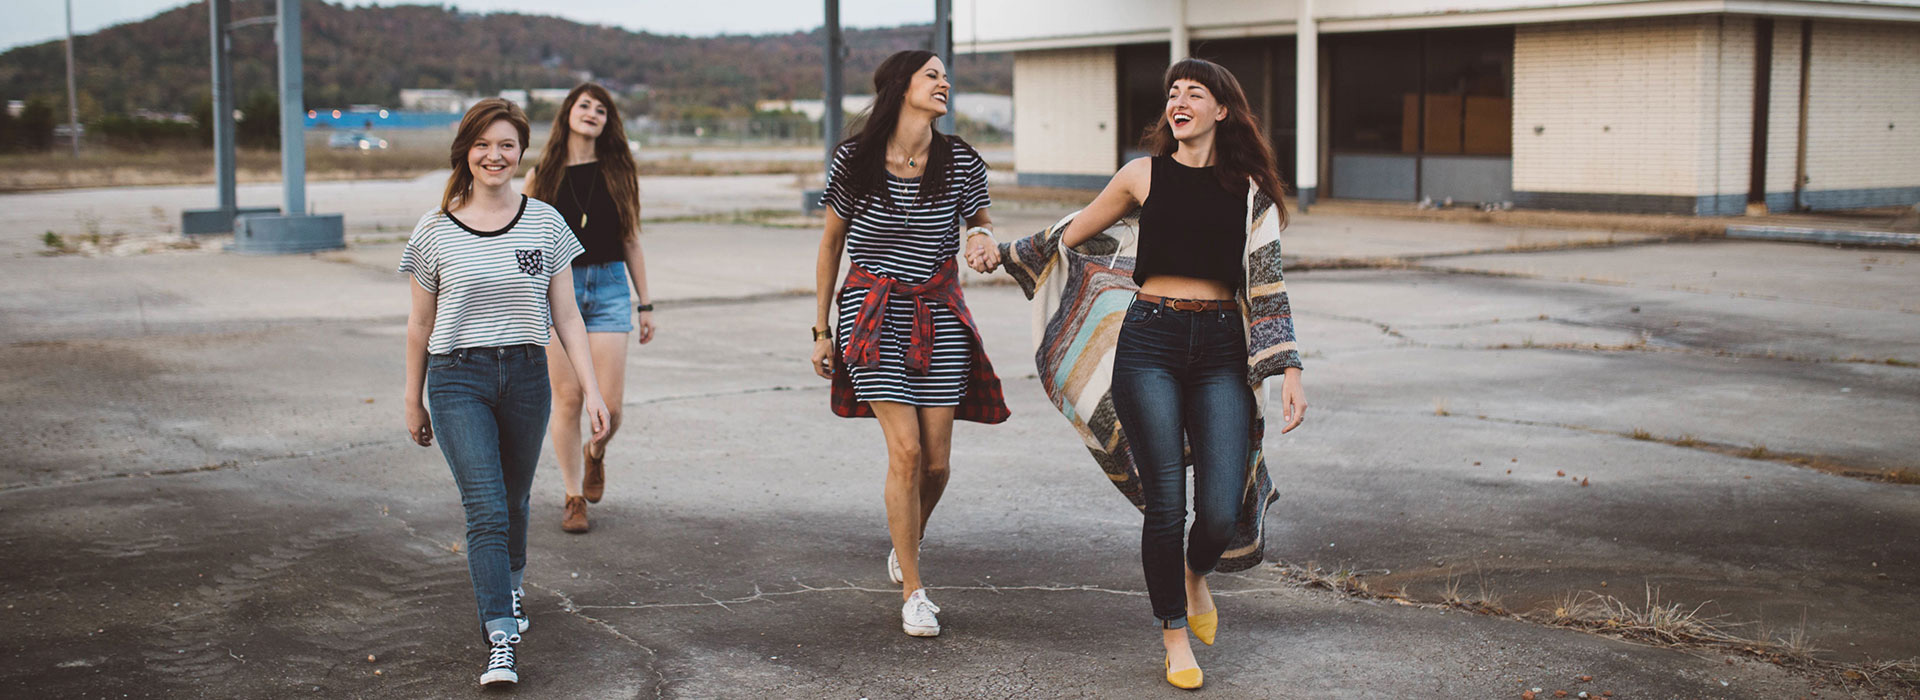
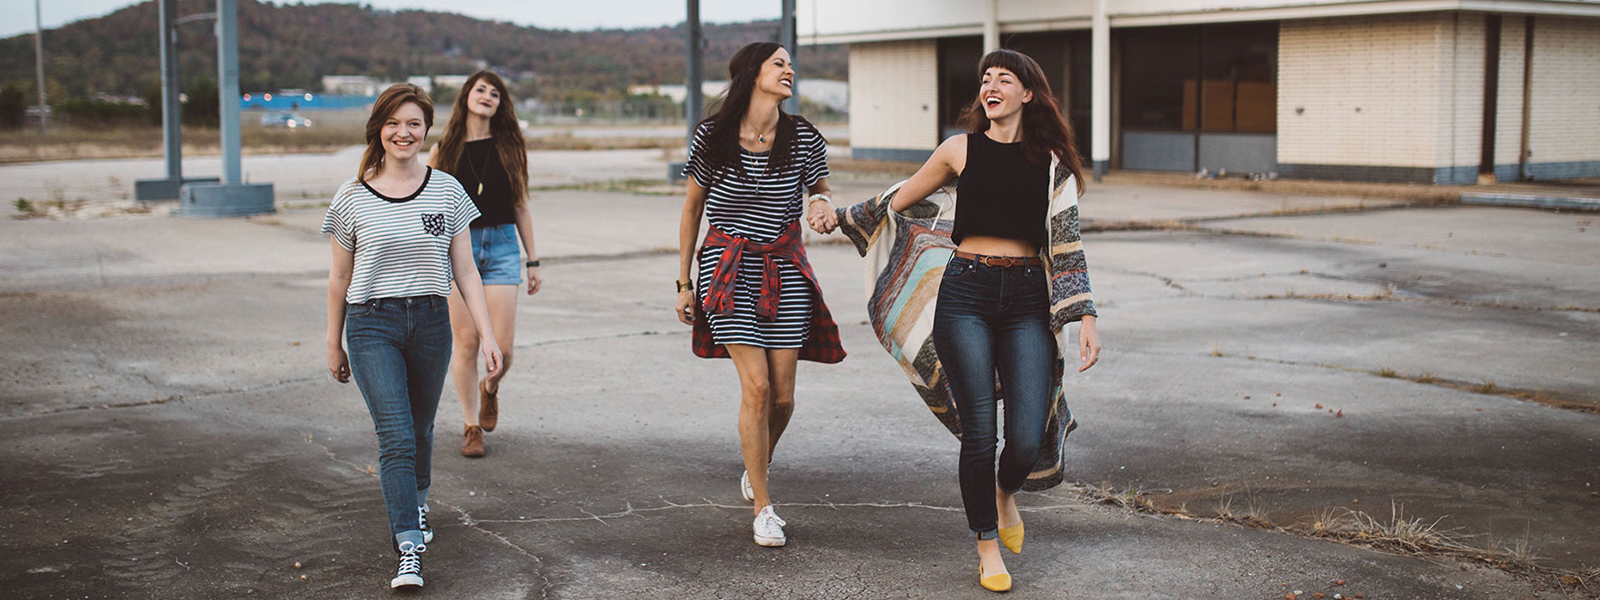
progres-06%

diff --git a/html-css/module-05/index.html b/html-css/module-05/index.html
@@ -42,16 +42,18 @@
         </div>
       </nav>
       <div class="slider">
-        <div class="container-slider-information">
-          <button class="slider-ctrl prev">prev</button>
-          <button class="slider-ctrl next">next</button>
-          <div class="text-slider">
-            <h1 class="name-page">affordable paris tours</h1>
-            <p class="page-about">city tours/tour tickets/tour guides</p>
+        <div class="container">
+          <div class="button-slider clearfix">
+            <button class="slider-ctrl prew"></button>
+            <button class="slider-ctrl next"></button>
           </div>
         </div>
+        <div class="text-slider">
+          <h1 class="name-page">affordable paris tours</h1>
+          <p class="page-about">city tours/tour tickets/tour guides</p>
+        </div>
         <ul class="slides">
-          <li><img src="img/header/slider.jpg" alt="girls-have-fan" /></li>
+          <li class="slides-item"><img src="img/header/slider.jpg" alt="girls-have-fan" /></li>
         </ul>
       </div>
     </header>

diff --git a/html-css/module-05/css/styles.css b/html-css/module-05/css/styles.css
@@ -68,28 +68,37 @@ img {
 /*slider*/
 .slider {
   position: relative;
+  height: 600px;
 }
-.slider-ctrl {
+.button-slider {
   position: absolute;
+  width: 1110px;
   top: 50%;
   transform: translateY(-50%);
+}
+.slider-ctrl {
   display: inline-block;
   background-color: rgba(78, 198, 171, 0.6);
   width: 104px;
   height: 104px;
   border: none;
+  background-repeat: no-repeat;
+  background-position: center;
+  cursor: pointer;
 }
-.prev {
-  left: 0;
+.prew {
+  float: left;
+  background-image: url(../img/header/prew.png);
 }
 .next {
-  right: 0;
+  float: right;
+  background-image: url(../img/header/next.png);
 }
 .text-slider {
   position: absolute;
   top: 50%;
   left: 50%;
-  transform: translate(-50%,-50%);
+  transform: translate(-50%, -50%);
   display: inline-block;
   width: 770px;
 }
@@ -108,6 +117,7 @@ img {
   font-weight: 300;
   color: #ffffff;
 }
+
 /*
 .collection {
   background-color: #e9f0fd;
